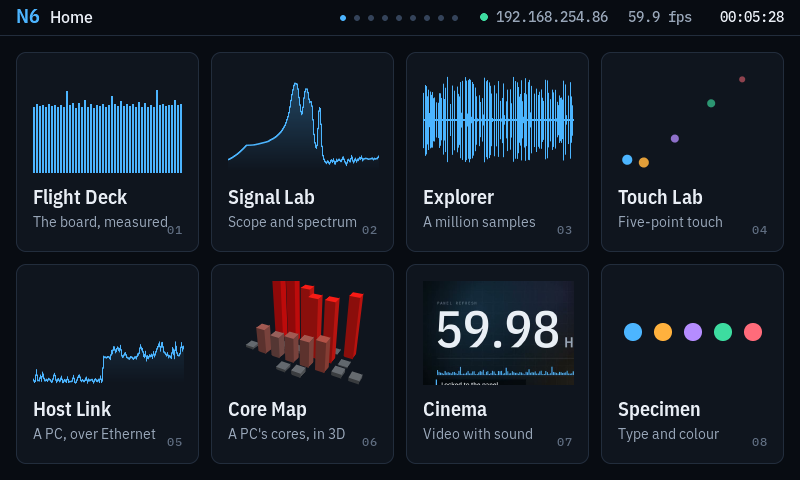
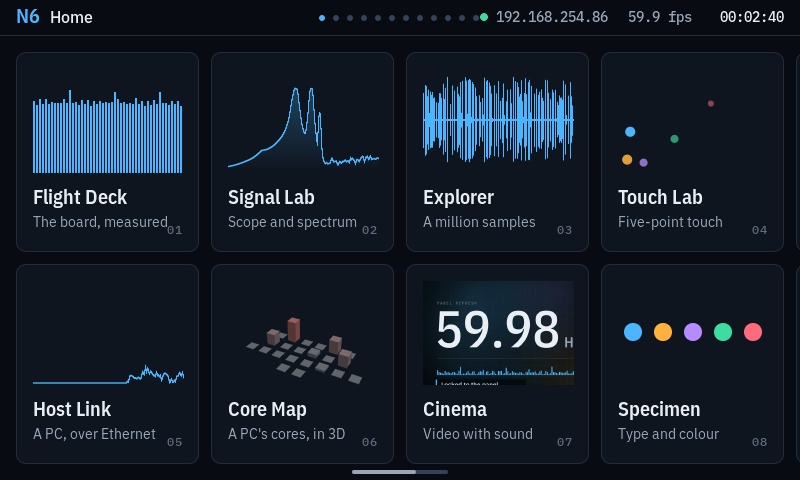
Docs: README on hand tracking and the transition budget; changelog
README: hand tracking on the NPU (pipeline, measurements, memory, setup with
tools/nn.py, diagnostics, the presence/handedness fault), the camera and NPU
in the hardware table, ST Edge AI as an optional prerequisite, the switch
time after a present in the transitions section, tour and status brought up
to date. New screenshots: a hand tracked on the Camera screen (a frame with
no face in it), Under the Hood, and Home with its twelve tiles.

CHANGELOG.md, by day, newest first (no releases are tagged).

diff --git a/README.md b/README.md
@@ -1,22 +1,26 @@
 # stm32n6-demo
 
 A multi-screen touch demo for the **STM32N6570-DK**: live dashboards, dense
-real-time data visualization, and full-screen video with sound, built on
-Zephyr 4.4.0 and LVGL 9.5. The audience is engineers and UX designers, so the
-rules are: lock to the panel refresh, no fake data, and show the measurements.
+real-time data visualization, full-screen video with sound, and a live camera
+with hand tracking on the NPU, built on Zephyr 4.4.0 and LVGL 9.5. The
+audience is engineers and UX designers, so the rules are: lock to the panel
+refresh, no fake data, and show the measurements.
 
-> **Status: twelve screens, video playback and audio output work on hardware.**
-> Every screen holds the panel's 59.98 Hz with no dropped frames in the
-> automated run, a 48 s original film plays at 30 fps with stereo sound from
-> flash or from a microSD card, clips upload to the card over Ethernet at
-> 2 to 4 MB/s while the demo runs, and touch, motion, colour and sound have been
-> checked by hand (the card path by measurement only, so far). Left alone
-> for 90 seconds it tours itself. Not built yet: microphone input. See
-> [Status](#status).
+> **Status: twelve screens, video with sound, and camera hand tracking work on
+> hardware.** Every screen holds the panel's 59.98 Hz with no dropped frames
+> in the automated run. A 48 s original film plays at 30 fps with stereo sound
+> from flash or from a microSD card, and clips upload to the card over
+> Ethernet at 2 to 4 MB/s while the demo runs. The camera runs at 30 fps, and
+> the NPU tracks a hand in it at the camera's rate: 21 points, the gesture,
+> and which hand it is. Touch, motion, colour, sound and hand tracking have
+> been checked by hand on the panel. Left alone for 90 seconds it tours
+> itself. The microphone path runs, but the board's own microphone delivers
+> only noise. See [Status](#status) and the [changelog](CHANGELOG.md).
 
 | | |
 |---|---|
-| ![Home](docs/img/home.png) | ![Signal Lab](docs/img/signal-lab.png) |
+| ![Home](docs/img/home.png) | ![Hand tracking on the NPU, over the live camera](docs/img/camera-hand.png) |
+| ![Signal Lab](docs/img/signal-lab.png) | ![Under the Hood: the firmware's threads in 3D](docs/img/under-the-hood.png) |
 | ![Explorer](docs/img/explorer.png) | ![The film playing in Cinema](docs/img/film.png) |
 | ![Core Map: a PC's processors in 3D](docs/img/core-map.png) | ![A clip playing from the microSD card, with the stats panel](docs/img/cinema-card-playing.png) |
 
@@ -34,6 +38,8 @@ The plan, with architecture, budgets, phases and risks, is in
 | Storage | microSD slot on SDMMC2, 4-bit; optional (a 32 GB FAT32 card here) |
 | Network | Gigabit Ethernet, RTL8211F PHY (RGMII) |
 | Audio | WM8904 codec to the headphone jack, MEMS microphone on MDF |
+| Camera | B-CAMS-IMX module: Sony IMX335, 5 Mpx, on MIPI CSI-2, through the DCMIPP and ST's ISP |
+| NPU | ST Neural-ART accelerator, running Google MediaPipe's hand networks (converted with ST Edge AI) |
 | Probe | On-board ST-LINK V3EC, virtual COM port (COM17 on this host) |
 
 ## Prerequisites
@@ -42,7 +48,10 @@ The plan, with architecture, budgets, phases and risks, is in
 - Zephyr SDK 1.0.1 (`arm-zephyr-eabi`)
 - STM32CubeProgrammer 2.18 or later (provides `STM32_Programmer_CLI`, the
   signing tool and the `MX66UW1G45G_STM32N6570-DK` external loader)
-- ffmpeg (video asset pipeline, later phases)
+- ffmpeg (video asset pipeline)
+- Optional, for hand tracking: ST Edge AI 4.0 (`C:\ST\STEdgeAI\4.0`, or set
+  `STEDGEAI_CORE_DIR`). Without it the firmware builds with the NPU left out:
+  the Camera screen shows the picture and says that the NPU is not in the build
 
 ## Setup
 
@@ -155,7 +164,7 @@ The firmware listens on these ports (trusted LAN only, no authentication):
 | Port | Purpose | Host tool |
 |---|---|---|
 | tcp/5555 | One frame of the display, captured at a frame boundary | `tools/shot.py` |
-| tcp/5556 | Text commands: switch screen, start attract mode, which screen is up (`where`), frame statistics, inject touches, audio, video and clip-list status, open a clip | `tools/ctl.py` |
+| tcp/5556 | Text commands: switch screen, start attract mode, which screen is up (`where`), frame statistics, inject touches, audio, video and clip-list status, open a clip, NPU and hand tracker (`nn`) | `tools/ctl.py`, `tools/nn.py` |
 | udp/5557 | Host telemetry in, echo out; `N6HQ` discovery query answered with `N6HA` | `host/companion.py` |
 | tcp/5558 | Clips to and from the list on the microSD card: put (with CRC-32), list, delete, free space | `tools/n6v.py upload`, `ls`, `rm`, `df` |
 | tcp/80 | The board describes itself: `/`, `/agent.md`, `/status.json` | a browser, `curl`, an agent |
@@ -172,8 +181,9 @@ screenshots to `captures/tour/`, pans Home with five placeholder tiles added
 (rest position, a tap on a tile that has moved, an edge swipe), then drives
 Touch Lab, Explorer and Core Map
 with injected multi-touch (three contacts, pinches, a flick, an orbit, an
-edge swipe), checks that 80 touch releases never change the screen, makes
-ten screen changes, plays the film from flash and from the card, opens and
+edge swipe), checks that 80 touch releases never change the screen, enters
+every screen through a transition (27 changes, six of them from a playing
+film into Under the Hood), plays the film from flash and from the card, opens and
 closes a clip three times, records what the DAC gets during a drag on the
 slider, a pause and a resume and counts the discontinuities in it, uploads a
 generated test clip to the card while
@@ -205,7 +215,8 @@ app/                    Zephyr application (also the west manifest repo)
   src/platform/         display (gfx), touch, network, telemetry, PSRAM, remote control
   src/ui/               design tokens, fonts, shell, direct rasteriser
   src/dsp/              signal generator + FFT, Explorer dataset + pyramid
-  src/media/            hardware JPEG decode, clip player, microSD card and upload service
+  src/media/            hardware JPEG decode, clip player, microSD card and upload service, camera
+  src/nn/               NPU runtime glue, hand tracker
   src/screens/          one file per screen
 assets/                 font sources (IBM Plex, OFL)
 media/film/             the original film, companion clips and soundtrack, as code
@@ -219,6 +230,7 @@ tools/
   dataset.py            move Explorer's data set from PSRAM into the flash
   gen_fonts.py          TTF to LVGL bitmap fonts (needs npm install in tools/fontconv)
   n6v.py                encode video clips; upload them to the card, or pack and flash them
+  nn.py                 NPU networks: fetch, convert, flash, check against the PC; watch and grab the tracker
   gdbrun.ps1            scripted ST-LINK gdbserver + GDB session for bring-up
 docs/plan.html          the plan
 captures/               screenshots and logs pulled off the board (not committed)
@@ -238,14 +250,14 @@ captures/               screenshots and logs pulled off the board (not committed
 | Cinema | Clips from flash and from the microSD card in a gallery that scrolls sideways; full screen with overlay controls, scrubbing (the picture follows the finger, the sound is cross-faded 85 ms pieces of the clip) and a stats panel (decode and conversion time, bit rate, seek time, read-ahead). Hardware JPEG decode about 10 ms a frame, DMA2D conversion 4.8 ms, video slaved to the audio clock | 30 fps video, no drops; a video frame costs the UI 6.2 ms, 9.2 ms with the controls up, 9.9 ms while scrubbing |
 | Specimen | Type scale, colour tokens, motion test | 1.9 / 3.1 ms |
 | Settings | The board's address (DHCP or fixed, entered on a keypad, applied at once, kept on the card), a QR code for the board's own description at http://<board>/, and which PC is feeding Host Link and Core Map | 1.8 / 2.0 ms |
-| Camera | The IMX335 (B-CAMS-IMX module, 5 Mpx) live at 30 fps: demosaiced and scaled to 592 x 444 by the DCMIPP, auto exposure and white balance by ST's ISP middleware, copied to the display by DMA2D (3 ms). Over it, hand tracking on the NPU: Google MediaPipe's palm detector finds a hand at any rotation, a crop turned upright around it goes to the 21-point hand landmark network, and from then on each frame's crop follows the landmarks; the 21 points and their bones are drawn on the picture and the gesture is read from the joint angles (fist, open hand, pointing, victory, thumbs up and down, OK, rock on, call me, finger counts). Beside it the NPU's time per network, the tracking rate and what the ISP chose. The camera and the NPU run only while the screen is up | 4.9 / 9.2 ms |
+| Camera | The IMX335 (B-CAMS-IMX module, 5 Mpx) live at 30 fps: demosaiced and scaled to 592 x 444 by the DCMIPP, auto exposure and white balance by ST's ISP middleware, copied to the display by DMA2D (3 ms). Over it, hand tracking on the NPU (see [Hand tracking on the NPU](#hand-tracking-on-the-npu)): the 21 points and their bones are drawn on the picture, the gesture is read from the joint angles (fist, open hand, pointing, victory, three, four, thumbs up and down, thumb out, OK, rock on, call me, or a finger count), and the side panel names the hand (left or right, and how sure the network is). Beside it the NPU's time per network, the tracking rate and what the ISP chose. The camera and the NPU run only while the screen is up | 5.2 / 10.1 ms |
 | Under the Hood | This firmware, measured live from Zephyr's own statistics: a 3D plot with one ribbon per thread (the eight busiest) showing its share of the CPU over the last 12 s on a logarithmic height axis from 0.01 % to 100 %, so a service thread at a twentieth of a per cent is as readable as the UI thread at fifty (drag to orbit, pinch to zoom, tap a ribbon, tap SCALE for linear axes), every thread with its CPU share and stack high-water mark, and the static RAM, LVGL pool, kernel heap and PSRAM in use. Interrupt time counts to the thread it interrupted | 7.8 / 12.6 ms |
 
 Frame time is all UI-thread work for a frame (screen logic, layout, render),
 measured on the board over five seconds per screen by `tools/tour.py`. The
 budget at 59.98 Hz is 16.67 ms. Host Link and Core Map are measured with the
-companion running. The same run makes ten screen changes and a 150 s lap of
-attract mode: no dropped frame in either, worst frame 14.3 ms.
+companion running. The same run makes 27 screen changes and a 150 s lap of
+attract mode: no dropped frame in either, worst frame 14.8 ms.
 
 Explorer is the screen closest to the budget, and it was over it until the
 build was told about the FPU: the N657's Cortex-M55 has double precision, but
@@ -285,6 +297,12 @@ LTDC layer's constant alpha, reloaded at the vertical blank, over a
 background colour that matches the theme. The frame that builds the new
 screen is therefore drawn while the display is dark, and a transition costs
 no frame time (blending a veil in software dropped a frame on every one).
+The swap itself (one screen's hide, the next one's show) runs just after a
+frame has been presented, so its time comes out of the budget of the frame
+that builds the new screen; `ctl.py stats` reports it as `tail_worst_us`.
+Under the Hood's first frame after leaving a playing film missed a refresh
+that way about once in three attract laps, unseen in the dark but counted;
+its side panel now waits one frame.
 
 After 90 seconds without a touch the demo runs itself: it steps through the
 screens, lets Explorer finish its zoom tour, plays the film once in Cinema,
@@ -391,6 +409,74 @@ up to 7 % of full scale. Every voice now ends in a release ramp
 blaming hardware: extract the PCM from the `.n6v`, compare it with the WAV,
 and look for isolated steps in both.
 
+## Hand tracking on the NPU
+
+![A hand tracked on the Camera screen: 21 points, the gesture, which hand](docs/img/camera-hand.png)
+
+The Camera screen runs Google MediaPipe's hand pipeline (Apache-2.0 models)
+on the N6's NPU:
+
+1. The **palm detector** (192 x 192 input) looks at the whole picture,
+   letterboxed, and finds palms at any rotation: about 65 ms a run.
+2. Around the best palm, a square crop turned so that the fingers point up
+   goes to the **hand landmark network** (224 x 224 input): 21 points in 3D,
+   whether it is a hand, and which hand. About 20 ms.
+3. From then on each frame's crop follows the previous frame's landmarks, and
+   the palm detector runs again only when the hand is lost. The points are
+   smoothed with a one-euro filter, and the gesture, read from the joint
+   angles, has to hold for three frames before it shows.
+
+Measured on the board: tracking at the camera's 30 fps; the crop costs the
+CPU 5 to 10 ms a frame (it reads the camera frame from PSRAM). One hand is
+tracked at a time; a second hand in view does not disturb it, and tracking
+moves cleanly from one hand to the other. Checked on the panel with both
+hands, palm and back.
+
+The networks' working memory is the display's second frame buffer: 1.5 MB of
+the SRAM beside the NPU, lent to it while the Camera screen is up. The
+display runs single-buffered meanwhile, every frame started at the top of the
+panel's refresh, and the tour still counts 0 dropped frames. With their
+working memory in PSRAM the same networks took 938 and 350 ms. The weights
+are read in place from the flash.
+
+ST's NPU runtime and the converted networks are under ST's licence SLA0044,
+which does not allow them in an Apache-2.0 repository, so they are made
+locally:
+
+```powershell
+.\.venv\Scripts\python.exe tools\nn.py fetch      # the two models, SHA-256 pinned
+.\.venv\Scripts\python.exe tools\nn.py generate   # convert with ST Edge AI into build-nn\ (not committed)
+.\.venv\Scripts\python.exe tools\nn.py testimg    # MediaPipe's test picture, built into the firmware as a test input
+.\n6.cmd go --app-only                            # the build picks build-nn\ up
+.\.venv\Scripts\python.exe tools\nn.py flash      # the weights into the flash (stops the board); then n6.cmd run
+.\.venv\Scripts\python.exe tools\nn.py check      # both networks on the board against the original models on the PC
+```
+
+And to see what it does:
+
+```powershell
+.\.venv\Scripts\python.exe tools\ctl.py "nn hands"            # tracking, gesture, presence, handedness; palms found, confirmed, lost
+.\.venv\Scripts\python.exe tools\ctl.py "screen 11" "nn hands 2"   # track the built-in test picture: thumbs up expected
+.\.venv\Scripts\python.exe tools\nn.py watch 20               # the tracker's counters over 20 s
+.\.venv\Scripts\python.exe tools\nn.py grab 5 --hand          # frames as the tracker saw them, and the PC's models on them
+```
+
+`nn.py grab` copies a camera frame and both networks' inputs off the board
+and runs the original models on the PC: on the board's own inputs, and on
+variants (filtered differently, cropped, contrast stretched, turned, scaled,
+mirrored). The frames land in `captures/`, which git ignores: they show
+whoever is in front of the camera.
+
+That tool found the one real fault so far. The landmark network has two
+single-valued outputs, and the tracker took the first for "this is a hand".
+It is the handedness. A right hand passed, a left hand was dropped (208 palms
+found, 12 confirmed), which is what showed on the panel. The real presence
+output stops at exactly 0.5 for any hand in ST's quantized model, and that
+flat 0.5 had been read as a broken handedness output. Run on the PC on the
+test picture's mirror image and on inputs that are no hand at all, the two
+outputs gave themselves away in a minute: handedness 0.93 against 0.24,
+presence 0.50 against 0.01.
+
 ## Status
 
 | Item | State |
@@ -404,7 +490,7 @@ and look for isolated steps in both.
 | Video | 800 x 480, 30 fps from flash and from the microSD card, no dropped frames in the automated run |
 | Audio out | 48 kHz stereo to the headphone jack, zero underruns in the automated run, checked by ear. The sample clock comes from the HSI-fed PLL2 and measures 47.6 to 47.7 kHz (0.7 % low) |
 | Stand-alone boot (BOOT1 = L) | Working: with the switch at L the demo starts by itself after a reset (the console shows the boot ROM loading MCUboot from flash, then the application) |
-| Camera | Working: 30.0 fps, 0 dropped UI frames; opening and closing the screen costs no frame (the stream starts and stops on the capture thread). The image tuning is ST's ISP middleware, a west module under ST's licence SLA0044, fetched at build time and never committed here. Hand tracking on the NPU: both networks give the original models' answers (landmarks within 0.9 px of the PC), and the whole pipeline names the thumbs up in MediaPipe's test picture on the board; not yet tried with a hand in front of the camera. The NPU borrows the display's second frame buffer while the screen is up (the display runs single-buffered meanwhile, 0 dropped frames in the tour). ST's NPU runtime and the converted networks are under ST's licence SLA0044 and stay out of this repository: `tools/nn.py` fetches and converts, and the build leaves the NPU out without them |
+| Camera | Working: 30.0 fps, 0 dropped UI frames; opening and closing the screen costs no frame (the stream starts and stops on the capture thread). The image tuning is ST's ISP middleware, a west module under ST's licence SLA0044, fetched at build time and never committed here. Hand tracking on the NPU: both networks give the original models' answers (landmarks within 0.9 px of the PC), the whole pipeline names the thumbs up in MediaPipe's test picture on the board, and real hands in front of the camera track at 30 fps, either hand, palm or back (checked on the panel). The left/right label has not been checked against a real hand yet. One hand at a time. The NPU borrows the display's second frame buffer while the screen is up (the display runs single-buffered meanwhile, 0 dropped frames in the tour). ST's NPU runtime and the converted networks are under ST's licence SLA0044 and stay out of this repository: `tools/nn.py` fetches and converts, and the build leaves the NPU out without them |
 | Microphone as Signal Lab source | Capture path working, sound not yet: MDF1 turns the PDM stream into 48 kHz, 24 bit PCM on the DAC's own clock, a circular DMA delivers it with no errors, and a tap on Signal Lab's SOURCE label puts it on the scope, spectrum and waterfall. On this board the onboard microphone (U13) delivers only noise: 50 dB above its datasheet floor, unaffected by every capture setting, with no response to a tone or to tapping. Read at the pin, its bit stream is a healthy sigma-delta stream with nothing but that noise in the audio band, so the electronics of the part run and its transducer does not. A known good PDM microphone on connector CN5 (same pins, selected automatically) is the next step. The generator stays the default source |
 | Host Link | Working: 340 of 340 datagrams answered in the test run, 1.4 to 2.9 ms round trip as timed by the host |
 | Web remote, firmware update over the network | Not started |
@@ -413,7 +499,7 @@ and look for isolated steps in both.
 | Under the Hood | Working: no dropped frame on any of the five height axes in the automated run. On a linear axis the UI thread hid everything else (seen on the panel), hence the logarithmic default. The screen measures itself: with it showing, the UI thread takes about a third more of the CPU |
 | Cinema slider | A crash while scrubbing (picture frozen, a repeating noise) was reported once. Probable cause, found in a console log of real touches: Zephyr's input queue (16 events, drained by a thread at the lowest priority) dropped events, a lost release left the slider pressed, and the player then seeks to the same frame 60 times a second. Touch callbacks now run in the driver's context with no queue. Checked on the panel afterwards: five fingers on Touch Lab register and release cleanly with no event dropped, and the slider no longer hangs the film. Injected touches bypass the driver, which is why 2400 fuzzed actions never showed it. The slider's sound was rough as well (every UI frame restarted it at the finger); it is now short pieces of the clip cross-faded into each other while the finger moves and silence while it rests, measured free of steps and confirmed by ear on the panel. Other defects found on the way are fixed: a drag starting near a screen edge closed the film, seeks were counted as dropped frames and as stalls, Back could cost the UI a frame, the touch target was 44 px |
 | Screen transitions | Working: hardware fade, no frame dropped in the automated run |
-| Attract mode | Working: starts after 90 s idle, one lap is about 95 s |
+| Attract mode | Working: starts after 90 s idle, one lap is about two minutes; a hand tracked on the Camera screen counts as someone using it |
 | Soak test | Not started |
 
 ## License

diff --git a/CHANGELOG.md b/CHANGELOG.md
@@ -1,0 +1,113 @@
+# Changelog
+
+No releases are tagged; changes are listed by day, newest first. Each line
+names what a user of the demo or of its tools would notice; the commit log
+has the detail, and `CLAUDE.md` the reasons behind the rules that came out of
+them.
+
+## 2026-11-16
+
+### Fixed
+
+- **Hand tracking drops left hands.** The tracker read the landmark
+  network's handedness output as its presence output, so one hand of every
+  person failed the presence check (208 palms found, 12 confirmed). Both
+  hands now track at the camera's 30 fps, palm or back, checked on the panel.
+  The real presence output of ST's quantized model saturates at 0.5 for any
+  hand; the board doubles it.
+- **A dropped frame about once every five attract laps**, at the switch from
+  a playing film into Under the Hood: the switch runs just after a present,
+  so its time came out of the budget of Under the Hood's first frame (up to
+  15.8 ms). Its side panel now waits one frame (0 drops in 16 switches, was 5).
+
+### Added
+
+- Camera screen: the hand tracked is named left or right, with how sure the
+  network is.
+- Tracker diagnostics: `nn hands` reports the best palm score of each search
+  and counts palms found, confirmed and lost; `nn thr` sets the palm and
+  presence thresholds; `nn grab` copies a frame as the tracker saw it.
+  `tools/nn.py watch` prints the counters over time, and `tools/nn.py grab`
+  saves frames to `captures/` and runs the original models on the PC on the
+  board's inputs and on variants.
+- `ctl.py stats` reports `tail_worst_us`, the UI thread's time after a
+  present (the cost of a screen switch). The tour enters every screen
+  through a transition and makes the film to Under the Hood switch six times.
+- This changelog; README sections on hand tracking and the transition budget.
+
+### Changed
+
+- A hand tracked on the Camera screen counts as someone using the demo:
+  attract mode does not start under it.
+
+## 2026-11-15
+
+### Added
+
+- **Hand tracking on the NPU** (Camera screen): Google MediaPipe's palm
+  detector and 21-point hand landmark network, converted with ST Edge AI and
+  run by ST's runtime on Zephyr. The networks work in the display's second
+  frame buffer, which the display lends while the screen is up (it runs
+  single-buffered meanwhile); weights are read in place from the flash.
+  Gestures from the joint angles. `tools/nn.py` fetches, converts, flashes
+  and checks both networks against the original models on the PC; ST's
+  runtime and the converted networks stay out of the repository (SLA0044).
+- **Camera screen**: the IMX335 on the B-CAMS-IMX module at 30 fps,
+  demosaiced and scaled by the DCMIPP, exposure and white balance by ST's ISP
+  middleware (fetched by west, not committed), copied to the display by DMA2D.
+- **Settings screen**: the board's address, DHCP or fixed (entered on a
+  keypad, applied without a restart, kept on the card); a QR code for the
+  board's own description at `http://<board>/` (also `/agent.md` and
+  `/status.json`).
+- **Under the Hood screen**: this firmware's threads as ribbons in 3D, CPU
+  share over 12 s on a logarithmic axis by default, stacks, memory.
+- **Core Map screen**: a PC's logical processors as posts on a floor plan of
+  its chip, drag to orbit, pinch to zoom.
+- **Host Link screen** and the host companion (`run.cmd`): a PC's per-core
+  load, memory and network over UDP, with round-trip times. Boards are found
+  by broadcast; hosts with up to 255 processors (Core Map groups large hosts).
+- **microSD media library**: clips uploaded over Ethernet (2 to 4 MB/s, CRC
+  checked) and streamed from the card while the demo runs.
+- **Audio output and audio-clocked video**; the original 48 s film, its
+  soundtrack and two companion clips, rendered from code.
+- **Screen transitions** (a hardware fade with the LTDC layer alpha) and
+  **attract mode** (the demo tours itself after 90 s without a touch).
+- **Microphone capture path** (MDF1, 48 kHz, 24 bit) as Signal Lab's second
+  source, with bring-up tools (`micprobe`, `micbits`) and a research report
+  on why the board's own microphone gives only noise.
+- Home pans sideways when there are more than eight screens.
+- Explorer's 14 MB data set is used in place from the flash, which freed
+  14 MB of PSRAM.
+- `tools/acap.py` records what goes to the DAC and counts discontinuities;
+  `tools/fuzz_player.py` abuses the video player with random touches.
+
+### Fixed
+
+- **Touch releases lost** in Zephyr's input queue, which left the Cinema
+  slider pressed (the reported "crash" while scrubbing): input callbacks now
+  run synchronously, with no queue.
+- **Rough sound on the Cinema slider**: scrubbing plays short cross-faded
+  pieces of the clip, silence while the finger rests; no step in the sound.
+- **Clicks in the film** at fixed places: bass notes in the soundtrack ended
+  mid-cycle; every voice now ends in a release ramp.
+- Attract mode starting on about one touch release in five (an unsigned time
+  difference); the control port becoming unreachable under tools that
+  connected per command.
+- Explorer dropping frames: the build now uses the M55's double-precision
+  FPU.
+
+## 2026-11-14
+
+### Added
+
+- **Video player**: Motion JPEG clips with PCM sound (`.n6v`) from the
+  flash, decoded by the hardware JPEG codec at register level and converted
+  by DMA2D, full screen; the Cinema screen.
+- **Screens**: Home, Flight Deck, Signal Lab, Explorer, Touch Lab, Specimen.
+- **Platform**: the panel at 59.98 Hz with double buffers in internal SRAM
+  swapped in the line interrupt, LVGL on top, the screen shell, the remote
+  control port and frame buffer readback over Ethernet.
+- **Bring-up**: an unattended build, flash and run loop over the ST-LINK
+  (with power cycles, because ST's external loader leaves the flash in octal
+  mode), display and Ethernet.
+- Apache-2.0 licence.

diff --git a/CLAUDE.md b/CLAUDE.md
@@ -49,6 +49,10 @@ Invoke-WebRequest http://192.168.254.86/agent.md   # the board describes itself 
   first clip from flash and from the card (`ctl.py "card 0"` hides the card's
   clips), records the sound of a drag on the slider (`discontinuities 0`), and
   uploads, plays, seeks and deletes a generated test clip.
+- `CHANGELOG.md` gets a line for every change a user of the demo or its
+  tools would notice, under the day it is committed (no tagged releases).
+  README images are the board's own screenshots; one of the Camera screen
+  must show no face (the repository is public: pick a frame with a hand only).
 - Build times: a source-only change is about 2 min; any `prj.conf`, Kconfig or
   CMake change rebuilds LVGL and takes 6 to 8 min. Batch config changes.
 
